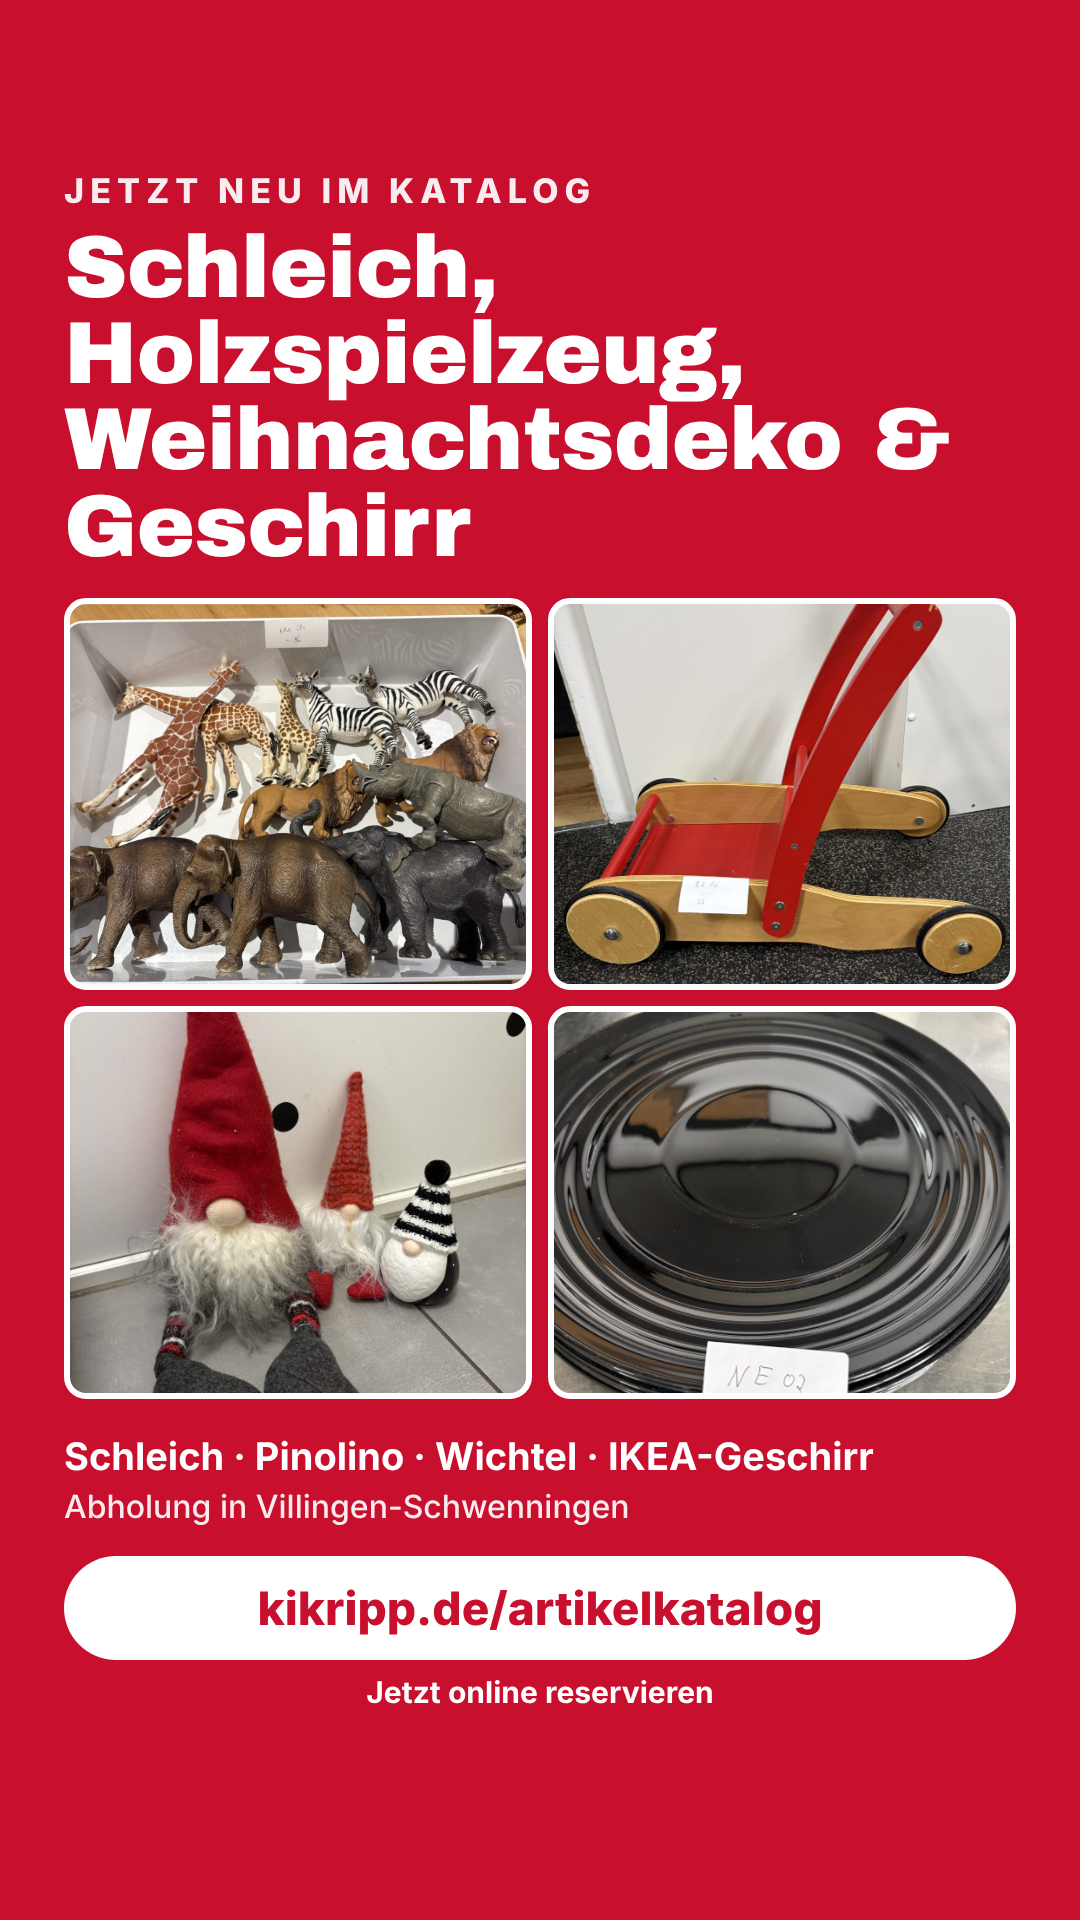
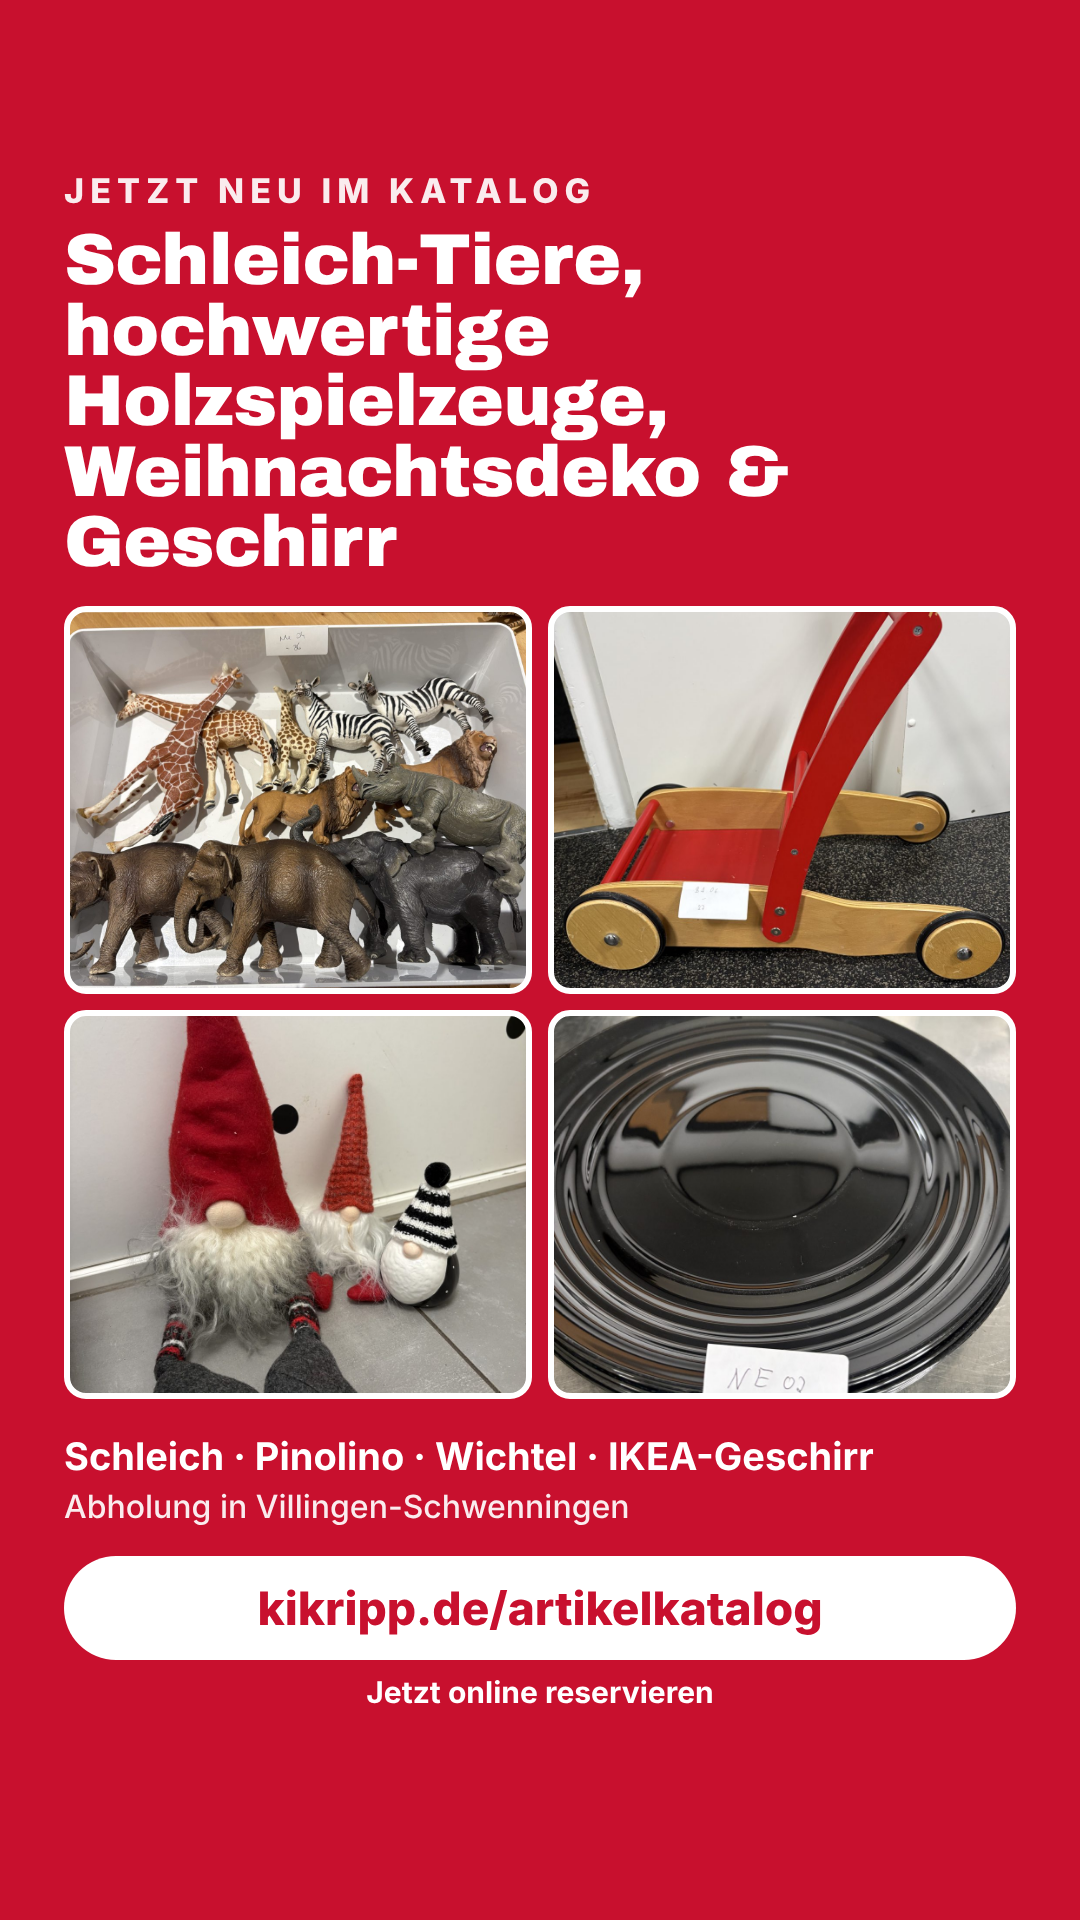
Status 11: Überschrift „Schleich-Tiere, hochwertige Holzspielzeuge“
Claude-Session: https://claude.ai/code/session_01MAb9sML3K5eAN8pMdxBaGV

diff --git a/scripts/build_social.py b/scripts/build_social.py
@@ -54,7 +54,7 @@ MOTIVE = [
       ("F-1069", "50% 50%"), ("F-1074", "50% 50%")],
      "Pinolino · Wesco · HABA · Schleich"),
     # 20.11.2026: Auswahl der Nutzerin S1, H4, W5, G1 (Auswahl_Status_11*.jpg)
-    ("11_Story_Schleich_Holz_Weihnachten_Geschirr", "vier", "Jetzt neu im Katalog", "Schleich, Holzspielzeug,<br>Weihnachtsdeko &amp; Geschirr",
+    ("11_Story_Schleich_Holz_Weihnachten_Geschirr", "vier", "Jetzt neu im Katalog", "Schleich-Tiere, hochwertige<br>Holzspielzeuge,<br>Weihnachtsdeko &amp; Geschirr",
      [("F-1069", "50% 50%"), ("F-1059", "50% 60%"),
       ("F-766", "50% 45%"), ("F-1096", "50% 40%")],
      "Schleich · Pinolino · Wichtel · IKEA-Geschirr"),
@@ -108,7 +108,7 @@ def html(fmt, klein, titel, fotos, stich):
                  archivo=schrift("ArchivoBlack.woff2"), inter=schrift("Inter.woff2"))
     if not story: masse["h1"] = 96
     if held: masse["h1"] = 100
-    if fmt in ("hoch9", "vier"): masse["h1"] = 88
+    if fmt in ("hoch9", "vier"): masse["h1"] = 88 if len(titel) < 60 else 72
     kacheln = "".join(f'<div style="background-image:url({bild(nr)});background-position:{pos}"></div>'
                       for nr, pos in fotos)
     art = " vier" if fmt == "vier" else " hoch9" if fmt == "hoch9" else (" hoch" if hoch else (" held" if held else ""))
